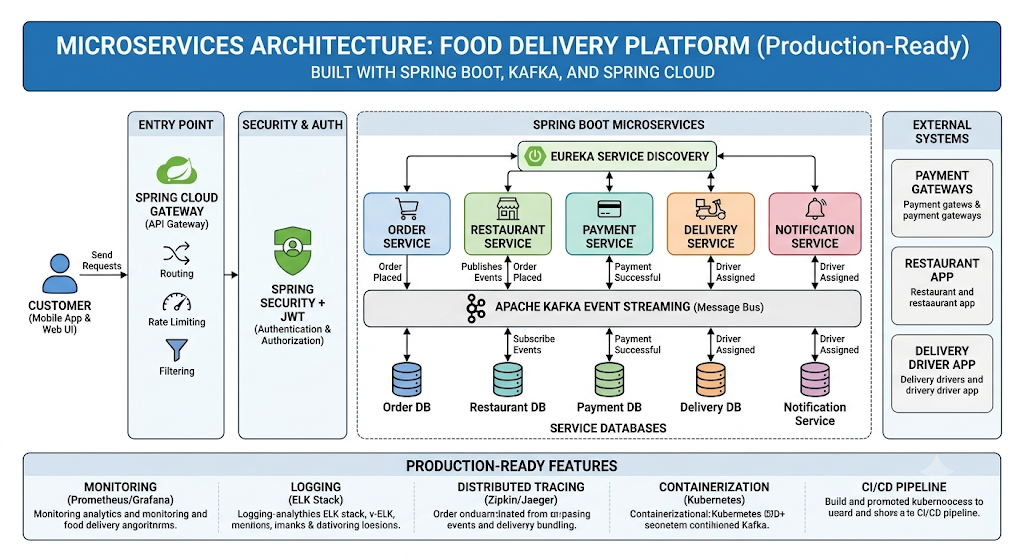
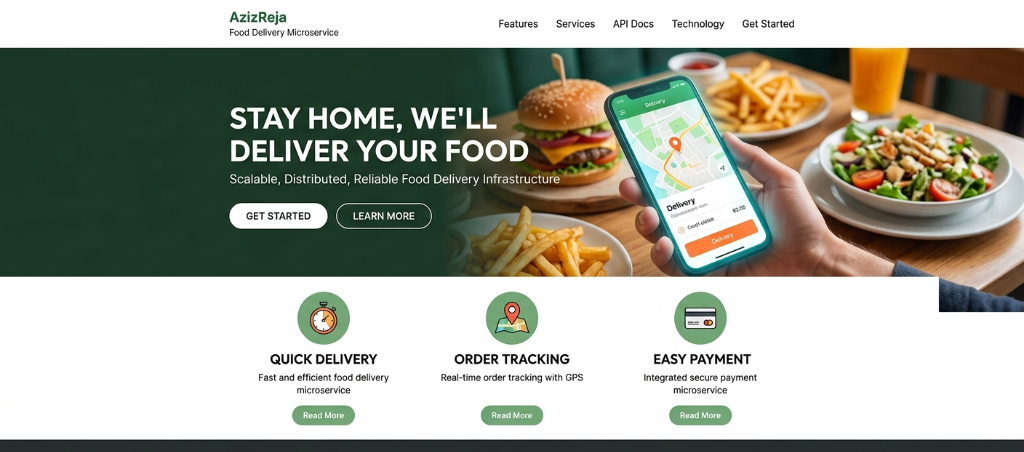
all images

diff --git a/src/lib/showcase.js b/src/lib/showcase.js
@@ -67,7 +67,7 @@ export const SHOWCASE_DATA = [
         title: "AI Agent Chatbot",
         link: "",
         github: "https://github.com/AzizReja10/ai-agent-chatbot",
-        image: "/projects/logocat.png",
+        image: "/projects/ai-agent-chatbot.png",
         description:
           "An AI chatbot that integrates with Google and executes your tasks or messages across Google Drive, Docs, Calendar, Gmail, Tasks, and Slack.",
         tech: [
